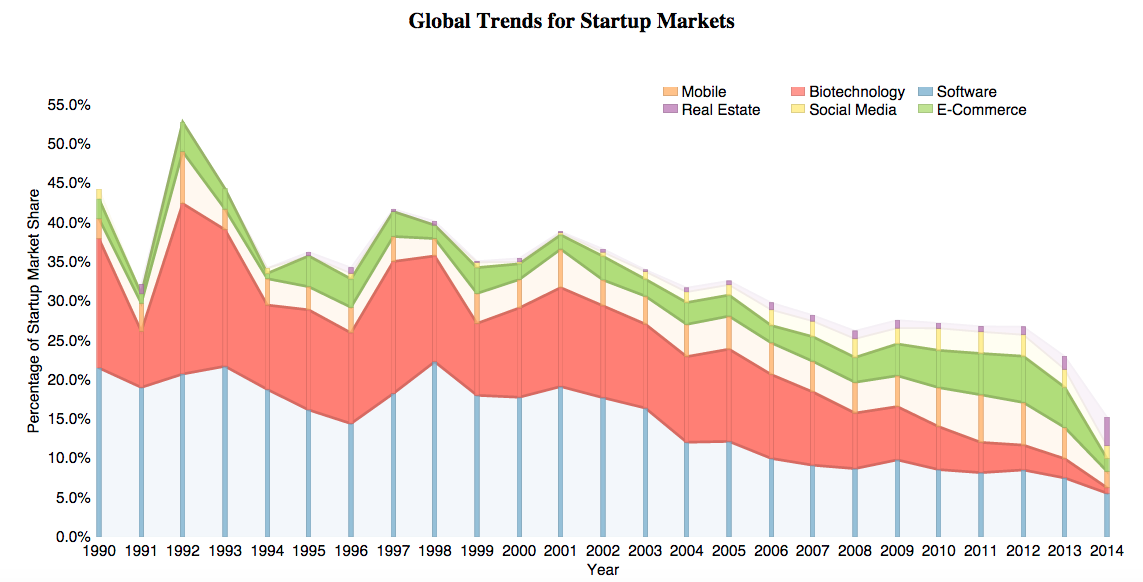
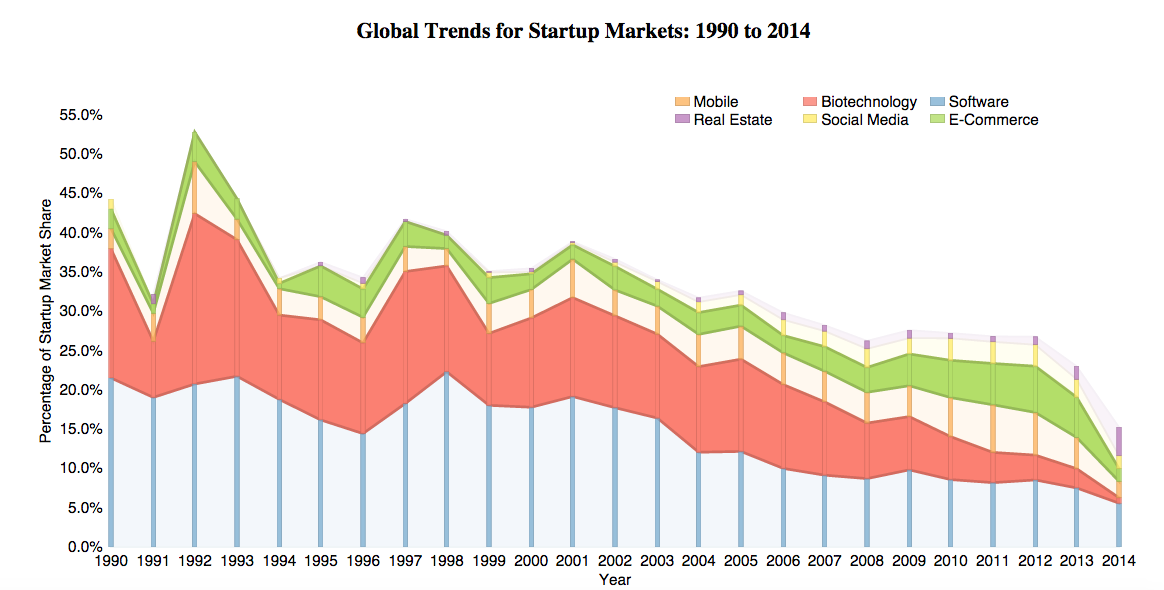
edits

diff --git a/Project5_Make Effective Data Visualization/clean_data_R/Explore_and_Clean_Data.html b/Project5_Make Effective Data Visualization/clean_data_R/Explore_and_Clean_Data.html
@@ -72,8 +72,8 @@ suppressMessages(library(dplyr))</code></pre>
 </div>
 <div id="overview" class="section level1">
 <h1>1. Overview</h1>
-<div id="this-data-set-includes-information-about-startups-in-world-wide-collected-by-cruchbase-httpsinfo.crunchbase.comaboutcrunchbase-data-exports.-the-exploration-here-will-focus-on-markets-of-new-founded-startups-and-observe-the-global-trends-of-startup-markets." class="section level4">
-<h4>This data set includes information about startups in world wide collected by CruchBase (<a href="https://info.crunchbase.com/about/crunchbase-data-exports/">https://info.crunchbase.com/about/crunchbase-data-exports/</a>). The exploration here will focus on markets of new founded startups and observe the global trends of startup markets.</h4>
+<div id="this-data-set-includes-information-about-startups-worldwide-collected-by-cruchbase-httpsinfo.crunchbase.comaboutcrunchbase-data-exports.-the-exploration-here-will-focus-on-the-global-trends-of-startup-market-share-over-time-from-1990-to-2014." class="section level4">
+<h4>This data set includes information about startups worldwide collected by CruchBase (<a href="https://info.crunchbase.com/about/crunchbase-data-exports/">https://info.crunchbase.com/about/crunchbase-data-exports/</a>). The exploration here will focus on the global trends of startup market share over time from 1990 to 2014.</h4>
 </div>
 </div>
 <div id="clean-data-and-exploration" class="section level1">

diff --git a/Project5_Make Effective Data Visualization/js/myChart3.js b/Project5_Make Effective Data Visualization/js/myChart3.js
@@ -12,7 +12,7 @@ function draw(data) {
           d3.select("#mychart")
             .append("h2")
                .attr("id", "title")
-               .text("Global Trends for Startup Markets");
+               .text("Global Trends for Startup Markets: 1990 to 2014");
 
           var svg = d3.select("#mychart")
             .append("svg")
